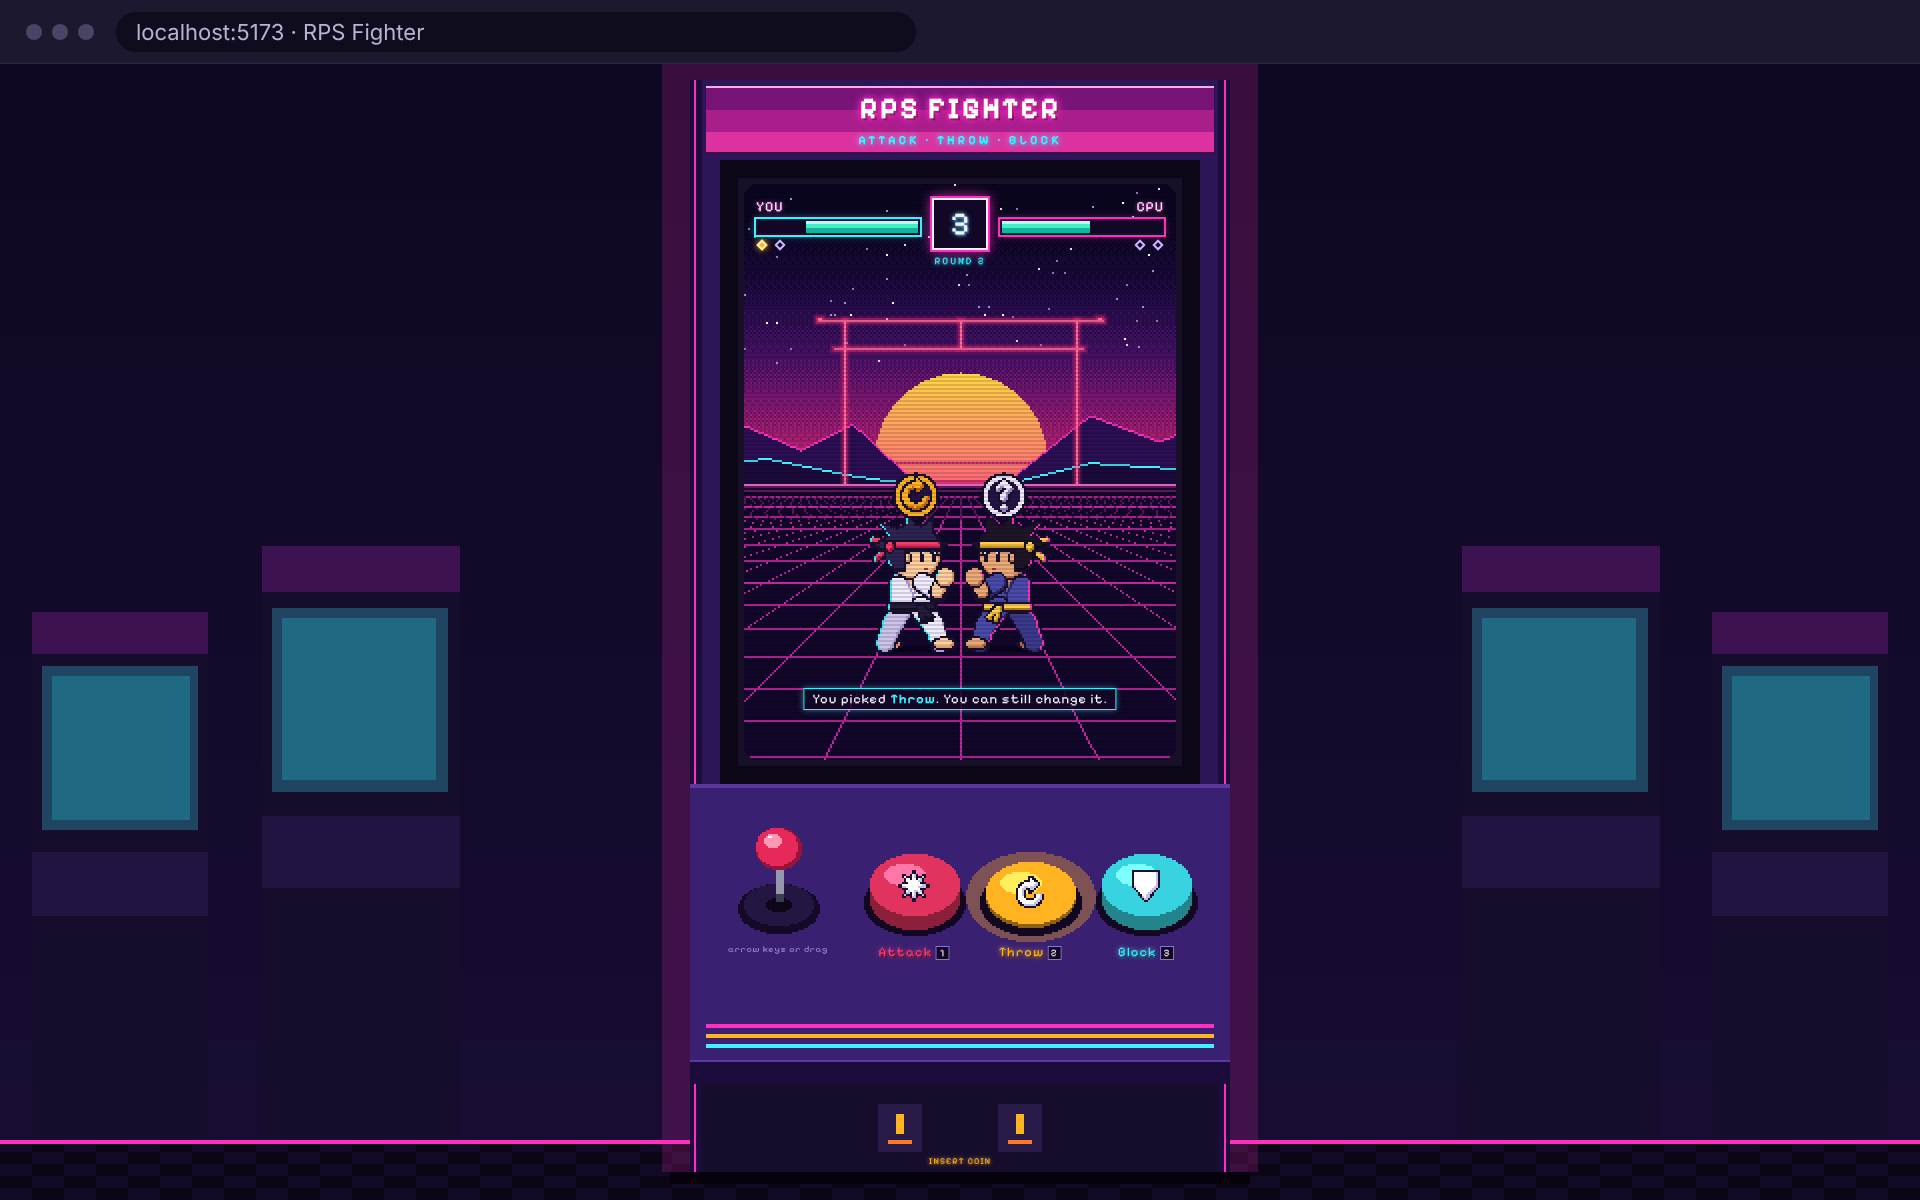
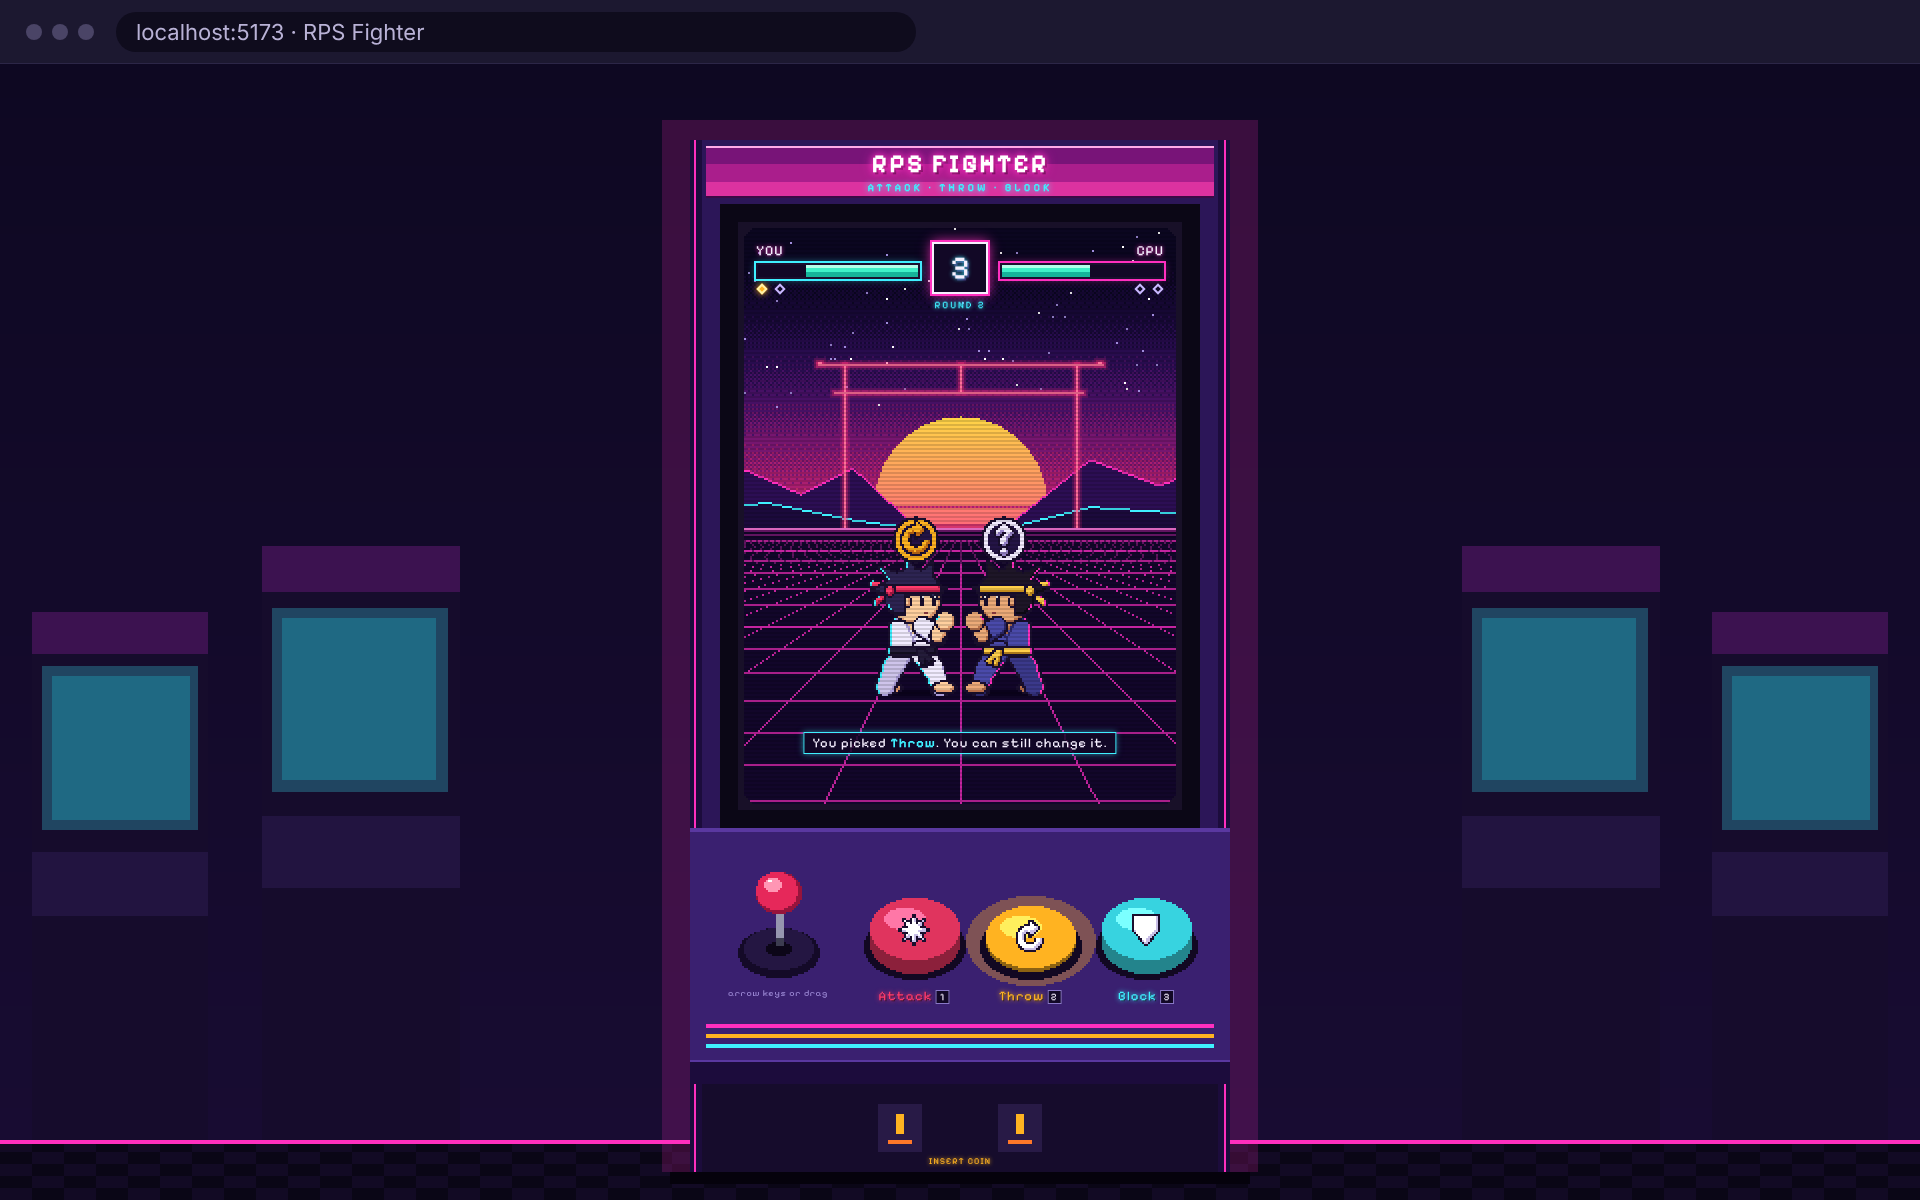
Trim cabinet frame to 270x472 and redraw mock-ups
The 270x502 frame only fit a 1080p browser window at 1x; 472 shows at 2x.
Records the decision in the architecture doc and project context.

Claude-Session: https://claude.ai/code/session_01UvLnzVEUjz68x9if7XGfvY

Changed region(s): [[0.3438, 0.0308, 0.6562, 0.8325]]

diff --git a/sources/cabinet-mockup/cabinet.html b/sources/cabinet-mockup/cabinet.html
@@ -65,7 +65,7 @@ const shadeOf=(c,f)=>c.map(v=>Math.round(v*f));
 
 // ---------- the cabinet (front view), drawn in game pixels ----------
 // returns layout info (monitor rect etc.) for overlays
-const CAB={W:270,marq:40,bez:15,bezV:12,monW:216,monH:288,panel:150,door:44};
+const CAB={W:270,marq:32,bez:15,bezV:12,monW:216,monH:288,panel:128,door:44}; // 270x472 frame (decided 2026-10-10)
 function cabinet(ctx,x0,y0,st,opts){
  const c=CAB,W=c.W;
  const monX=x0+c.bez+12-12+ (W-c.monW)/2 - c.bez + c.bez - (W-c.monW)/2 + (W-c.monW)/2; // = x0+(W-monW)/2
@@ -137,7 +137,7 @@ function monitor(st){
 function overlays(s,lay,mon,st,opts){
  const h=st.hud,mx=lay.mx,my=lay.my,P=(x,y)=>`left:${x*s}px;top:${y*s}px`;
  const side=(cls,nm,hp,lost,won)=>`<div class="side ${cls}"><div class="nm">${nm}</div><div class="bar"><i class="lost" style="width:${lost??hp}%"></i><i class="hp" style="width:${hp}%"></i></div><div class="pips"><span class="pip ${won>0?'won':''}"></span><span class="pip ${won>1?'won':''}"></span></div></div>`;
- let o=`<div class="abs marq" style="${P(lay.x0+8,lay.y0+3)};width:${(CAB.W-16)*s}px;height:${(CAB.marq-7)*s}px;font-size:${15*s}px">RPS FIGHTER<small>ATTACK · THROW · BLOCK</small></div>
+ let o=`<div class="abs marq" style="${P(lay.x0+8,lay.y0+3)};width:${(CAB.W-16)*s}px;height:${(CAB.marq-7)*s}px;font-size:${13*s}px">RPS FIGHTER<small>ATTACK · THROW · BLOCK</small></div>
  <div class="abs hud" style="${P(mx+6,my+7)};width:${204*s}px">${side('l','YOU',h.hp1,h.lost1,h.won1)}
   <div class="timer ${h.timer==null?'vs':h.timer<=2?'hurry':''}"><span>${h.timer??'VS'}</span><span class="lbl">${h.label}</span></div>${side('r','CPU',h.hp2,h.lost2,h.won2)}</div>`;
  if(h.mine)o+=`<div class="abs mine" style="${P(mx+mon.x1+2,my+mon.by-20)}">ONLY YOU SEE THIS</div>`;

diff --git a/PROJECT_CONTEXT.md b/PROJECT_CONTEXT.md
@@ -98,6 +98,7 @@ The whole game is drawn as an upright arcade machine. This gives a vertical layo
 - **Browser:** the cabinet stands centered and is scaled to fit the window height; the space around it is a dark arcade-room backdrop.
 - **Phone:** portrait; the cabinet fills the screen, with the control panel in thumb reach.
 - Monitor content is a 3:4 portrait screen (default picked by Claude; open to change). Game resolution 216x288 with 64 px fighters.
+- **Cabinet frame 270x472 native (decided 2026-10-10):** marquee 32, bezels 12, monitor 216x288, control panel 128. Shows at 2x in a 1080p browser window and 4x on most phones. Mock-ups redrawn at this size.
 - Mock-ups: `docs/mockups/cabinet/cabinet-browser-pick.png`, `cabinet-browser-reveal.png`, `cabinet-phone-pick.png`, `cabinet-phone-reveal.png`. Source in `sources/cabinet-mockup/` (`cabinet.html#browser-pick` etc.; render with `node shotcab.mjs browser-pick phone-reveal ...`). The older landscape mock-ups (`docs/mockups/landscape-superseded/`) are superseded.
 
 ## Pixel perfect (requirement, 2026-10-10)
@@ -155,7 +156,7 @@ Architecture rules:
 - Scenes wire, a `FightDirector` choreographs, views are dumb. `CabinetScene` always runs; monitor scenes draw through a 216x288 camera viewport.
 - Two homes for numbers: rules and phase timings in `packages/core/src/config.ts` (shared with server); all feel values in `apps/game/src/config/tuning.ts`. Dev-only Tweakpane panel to tune live.
 - Pixel scaler in `platform/`: largest whole scale in device pixels, canvas fills the window, leftover is arcade room.
-- Defaults to confirm: monorepo shape, cabinet frame trimmed to 270x472 (so it shows at 2x in a 1080p browser), Tweakpane, `no-restricted-paths` for import rules.
+- Defaults to confirm: monorepo shape, Tweakpane, `no-restricted-paths` for import rules. (Cabinet frame 270x472 is decided.)
 
 ## Roadmap
 
@@ -172,7 +173,7 @@ Architecture rules:
 - Overall aesthetic: the user is "not crazy about it yet" (cute chibi + neon '80s); parked, revisit later.
 - Art tools (researched 2026-10-10): best fit is **PixelLab** (pixel-art AI with character directions + animations, hosted MCP at https://api.pixellab.ai/mcp, Bearer API key, plans from ~$12/mo). Alternatives: Retro Diffusion (great look, Aseprite extension, $20-65 one-time, has API), Ludo, Scenario; Aseprite for hand cleanup. Claude's cloud sessions currently cannot reach api.pixellab.ai (built-in environment blocks it): needs a cloud environment that allows the domain plus the key as a secret, or run Claude Code locally with the MCP. User wants a more attractive pixel style with slightly bigger pixels.
 - Cabinet look: monitor aspect (3:4 portrait chosen as default), cabinet colours and side art.
-- Architecture defaults to confirm (see section 16 of the architecture doc): monorepo, 270x472 cabinet frame, Tweakpane, lint tool for import rules.
+- Architecture defaults to confirm (see section 16 of the architecture doc): monorepo, Tweakpane, lint tool for import rules.
 - 100 starting health right? 5s or 3s timer?
 - Game name beyond "Rock Paper Scissors Fighter"?
 
@@ -205,4 +206,5 @@ Architecture rules:
 - 2026-10-10: User approved the cabinet layout and proportions (art style to be refined).
 - 2026-10-10: Organized the project files (docs/, sources/, archive/) and pushed them with a README to the repository.
 - 2026-10-10: Architecture document written (`docs/architecture/ARCHITECTURE.md`): layers, monorepo, core rules + referee, MatchSession, director/views, pixel scaler, tuning, online, Android, code rules, testing. Proposal pending the user's review.
+- 2026-10-10: Cabinet frame trimmed to 270x472 native (from 502) so it shows at 2x in a 1080p browser window; mock-ups redrawn.
 - 2026-10-10: Layout: vertical arcade cabinet (monitor on top, control panel with 3 physical buttons + decorative joystick below), in browser and on phone. Replaces landscape 16:9.

diff --git a/docs/architecture/ARCHITECTURE.md b/docs/architecture/ARCHITECTURE.md
@@ -239,7 +239,7 @@ The pixel-perfect rules from the project context are enforced in one place, the 
 5. **Whole pixels only.** Positions go through `snap()`; tweens and shake round to whole pixels; no `setScale` or `setRotation` on sprites (turns, squash and zoom are drawn as frames).
 6. **Pixel text.** A bitmap pixel font at native size. No browser fonts on the canvas.
 
-**Cabinet size note:** at 270 × 502 (today's mock-up), a typical 1080p browser window (about 950 px tall inside the browser) only fits the cabinet at 1×, which is tiny. Trimming the frame to **270 × 472** (marquee 32, control panel 128, monitor unchanged at 216 × 288) lets it show at 2× there, and at 4× on most phones. This is a recommendation to confirm, see [section 16](#16-choices-to-confirm).
+**Cabinet size (decided 2026-10-10): 270 × 472 native** (marquee 32, bezels 12, monitor 216 × 288, control panel 128). The earlier 270 × 502 frame only fit a typical 1080p browser window (about 950 px tall inside the browser) at 1×; at 472 it shows at 2× there, and at 4× on most phones. The cabinet mock-ups are redrawn at this size.
 
 ## 8. Tuning: every feel value in one place
 
@@ -370,11 +370,10 @@ Matches the roadmap in the project context:
 
 ## 16. Choices to confirm
 
-Defaults picked in this document that are easy to change now and harder later:
+Defaults picked in this document that are easy to change now and harder later (the cabinet size is already decided: 270 × 472):
 
 | Choice | Default | Alternative |
 |---|---|---|
 | Repo shape | npm workspaces monorepo (`packages/core`, `apps/game`, later `apps/server`) | One app with a `core/` folder, split later |
-| Cabinet frame | 270 × 472 native (shows at 2× on a 1080p browser window) | Keep 270 × 502 (1× on 1080p windows) |
 | Dev tuning panel | Tweakpane, dev builds only | lil-gui, or no panel |
 | Lint for import rules | `eslint-plugin-import` `no-restricted-paths` | `dependency-cruiser` |
